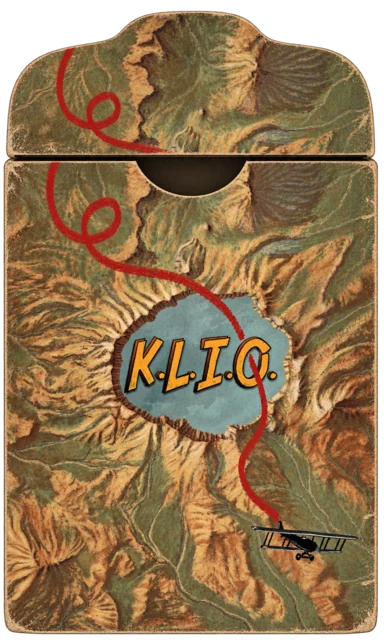
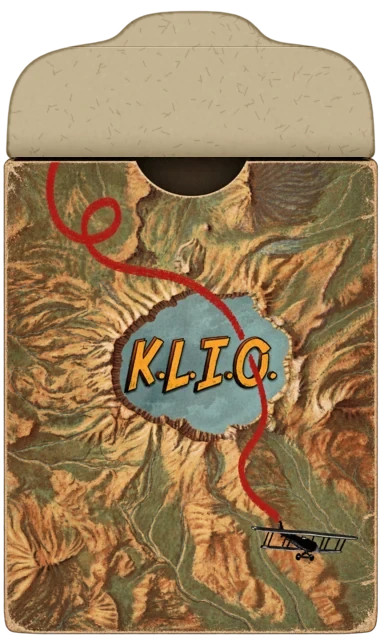
Kartenschachtel: Klappe innen blanker Karton, Karten bis an die Vorderseite
Rückmeldung des Autors von KLIO: Die rote Fluglinie stünde nicht auf der
Innenseite der Klappe. Klappe im Bild durch blanken Karton mit Falz ersetzt.
Öffnung auf die gemalte Oberkante der Vorderseite (40 statt 36 TP), damit
zwischen Vorderseite und Karten kein Streifen der Klappe bleibt; rest 112 hält
die Schachtel an ihrem Platz, Kerbe 9 TP tief (Grund wie bisher bei 49).

Changed region(s): [[0.0, 0.0, 1.0, 0.25]]

diff --git a/tests/e2e/oracle.spec.ts b/tests/e2e/oracle.spec.ts
@@ -104,7 +104,7 @@ test('Maske: unter der Öffnungskante ist keine Karte zu sehen, in der Daumenker
     /** Punkt im Bild der Schachtel (TP) → Element am Bildschirm */
     const at = (x: number, y: number) => document.elementFromPoint(r.left + x * k, r.top + y * k)?.closest('[data-oracle-card]')?.getAttribute('data-oracle-card') ?? null;
     // vordere Karte (Index 1) reicht von 6 bis 118 TP im Bild; links neben der Kerbe unter der Kante verdeckt
-    return { belowEdge: at(14, 46), inNotch: at(48, 40), aboveEdge: at(48, 20) };
+    return { belowEdge: at(14, 46), inNotch: at(48, 44), aboveEdge: at(48, 20) };
   });
   expect(hit).toEqual({ belowEdge: null, inNotch: '1', aboveEdge: '1' });
 });
@@ -130,8 +130,8 @@ const measure = (page: Page) => box(page).evaluate((el) => {
   const r = inner.getBoundingClientRect();
   const k = r.width / inner.offsetWidth;
   const at = (x: number, y: number) => document.elementFromPoint(r.left + x * k, r.top + y * k)?.closest('[data-oracle-card]')?.getAttribute('data-oracle-card') ?? null;
-  const out = [...el.querySelectorAll<HTMLElement>('[data-oracle-card]')].map((c) => 36 - (c.getBoundingClientRect().top - r.top) / k);
-  const res = { top: r.top, k, out, aboveEdge: at(48, 26), inNotch: at(48, 40), words: el.querySelectorAll('.word, [data-oracle-index]').length };
+  const out = [...el.querySelectorAll<HTMLElement>('[data-oracle-card]')].map((c) => 40 - (c.getBoundingClientRect().top - r.top) / k);
+  const res = { top: r.top, k, out, aboveEdge: at(48, 26), inNotch: at(48, 44), words: el.querySelectorAll('.word, [data-oracle-index]').length };
   el.style.rotate = '';
   return res;
 });
@@ -143,7 +143,7 @@ test('zu (5zh): nur die Oberkanten über der Öffnung, hintere 5,5, vordere 3,5 
   const m = await measure(page);
   expect(m.out[0]).toBeCloseTo(5.5, 0);
   expect(m.out[1]).toBeCloseTo(3.5, 0);
-  // 26 TP liegt klar über beiden Kanten (Öffnung bei 36): leer; in der Kerbe sieht man die vordere Karte, aber ohne Wort
+  // 26 TP liegt klar über beiden Kanten (Öffnung bei 40): leer; in der Kerbe sieht man die vordere Karte, aber ohne Wort
   expect(m).toMatchObject({ aboveEdge: null, inNotch: '1', words: 0 });
   await drawOracle(page, { x: 20, y: 5 });
   await page.mouse.move(0, 0);

diff --git a/README.md b/README.md
@@ -17,4 +17,4 @@ Lizenz: MIT für den Programmcode (siehe `LICENSE`). Spielinhalte sind davon aus
 
 Bilder des Tisches (`public/assets/table/`: Holz und Laterne) sind mit ChatGPT erzeugt und bearbeitet (Freistellen, Vergrößern mit Real-ESRGAN, Leuchtmaske; `scripts/table-assets.py`). Auch sie fallen nicht unter die MIT-Lizenz.
 
-Expeditionsblatt und Kartenschachtel des Orakels (`public/assets/sheet/expedition.webp`, `public/assets/cards/oracle-box.webp`, `public/assets/cards/oracle.webp`) sind mit einem Bildgenerator erzeugt (das Expeditionsblatt danach von Hand retuschiert) und fallen ebenfalls nicht unter die MIT-Lizenz. Die Handschrift darauf ist „Patrick Hand“ von Patrick Wagesreiter unter der SIL Open Font License 1.1 (`public/assets/fonts/patrick-hand-OFL.txt`).
+Expeditionsblatt und Kartenschachtel des Orakels (`public/assets/sheet/expedition.webp`, `public/assets/cards/oracle-box.webp`, `public/assets/cards/oracle.webp`) sind mit einem Bildgenerator erzeugt (Expeditionsblatt und Schachtel danach retuschiert) und fallen ebenfalls nicht unter die MIT-Lizenz. Die Handschrift darauf ist „Patrick Hand“ von Patrick Wagesreiter unter der SIL Open Font License 1.1 (`public/assets/fonts/patrick-hand-OFL.txt`).
